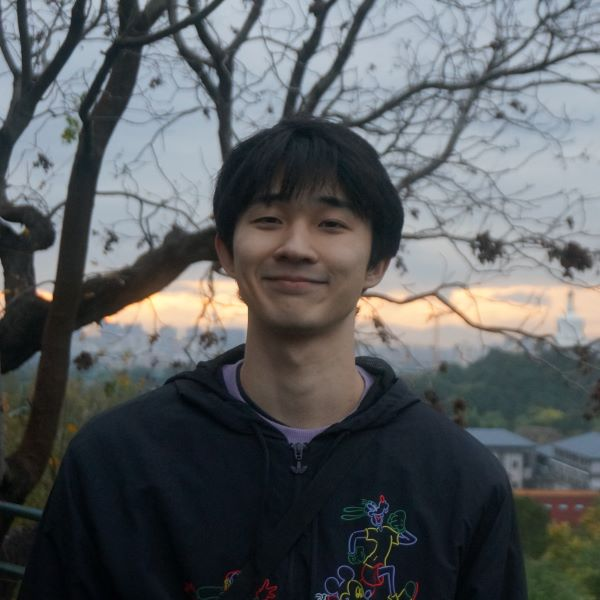
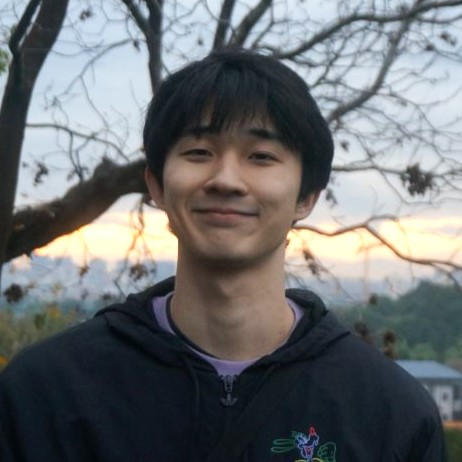
version 1.0.3

diff --git a/docs/people.html b/docs/people.html
@@ -149,11 +149,11 @@ http://themeforest.net/user/owwwlab/
                 <div class="row multi-columns-row col-margin-bottom-40">
                   <div class="col-md-4 col-sm-6">
                     <!-- #####Begin person card-->
-                    <div class="vc-card boxed hoverable-links mini-card"><a href="#" class="set-bg"> <img src="assets/img/people/01.jpg" alt="people" class="set-me"></a>
+                    <div class="vc-card boxed hoverable-links mini-card"><a href="#" class="set-bg"> <img src="assets/img/people/jp.jpg" alt="people" class="set-me"></a>
                       <div class="vc-card-wrapper"><a href="#" class="title">John Paparrizos</a>
                         <div class="subtitle">Assistant Professor</div>
                       </div>
-                      <div class="links"><a href="#"><i class="oli oli-facebook"></i><span>Facebook</span></a><a href="#"><i class="oli oli-twitter"></i><span>Twitter</span></a>
+                      <div class="links"><a href="https://www.paparrizos.org/"><i class="oli oli-home"></i><span>Website</span></a><a href="#"><i class="oli oli-profile-male"></i><span>paparrizos.1@osu.edu</span></a>
                       </div>
                     </div>
                     <!-- #####End person card-->
